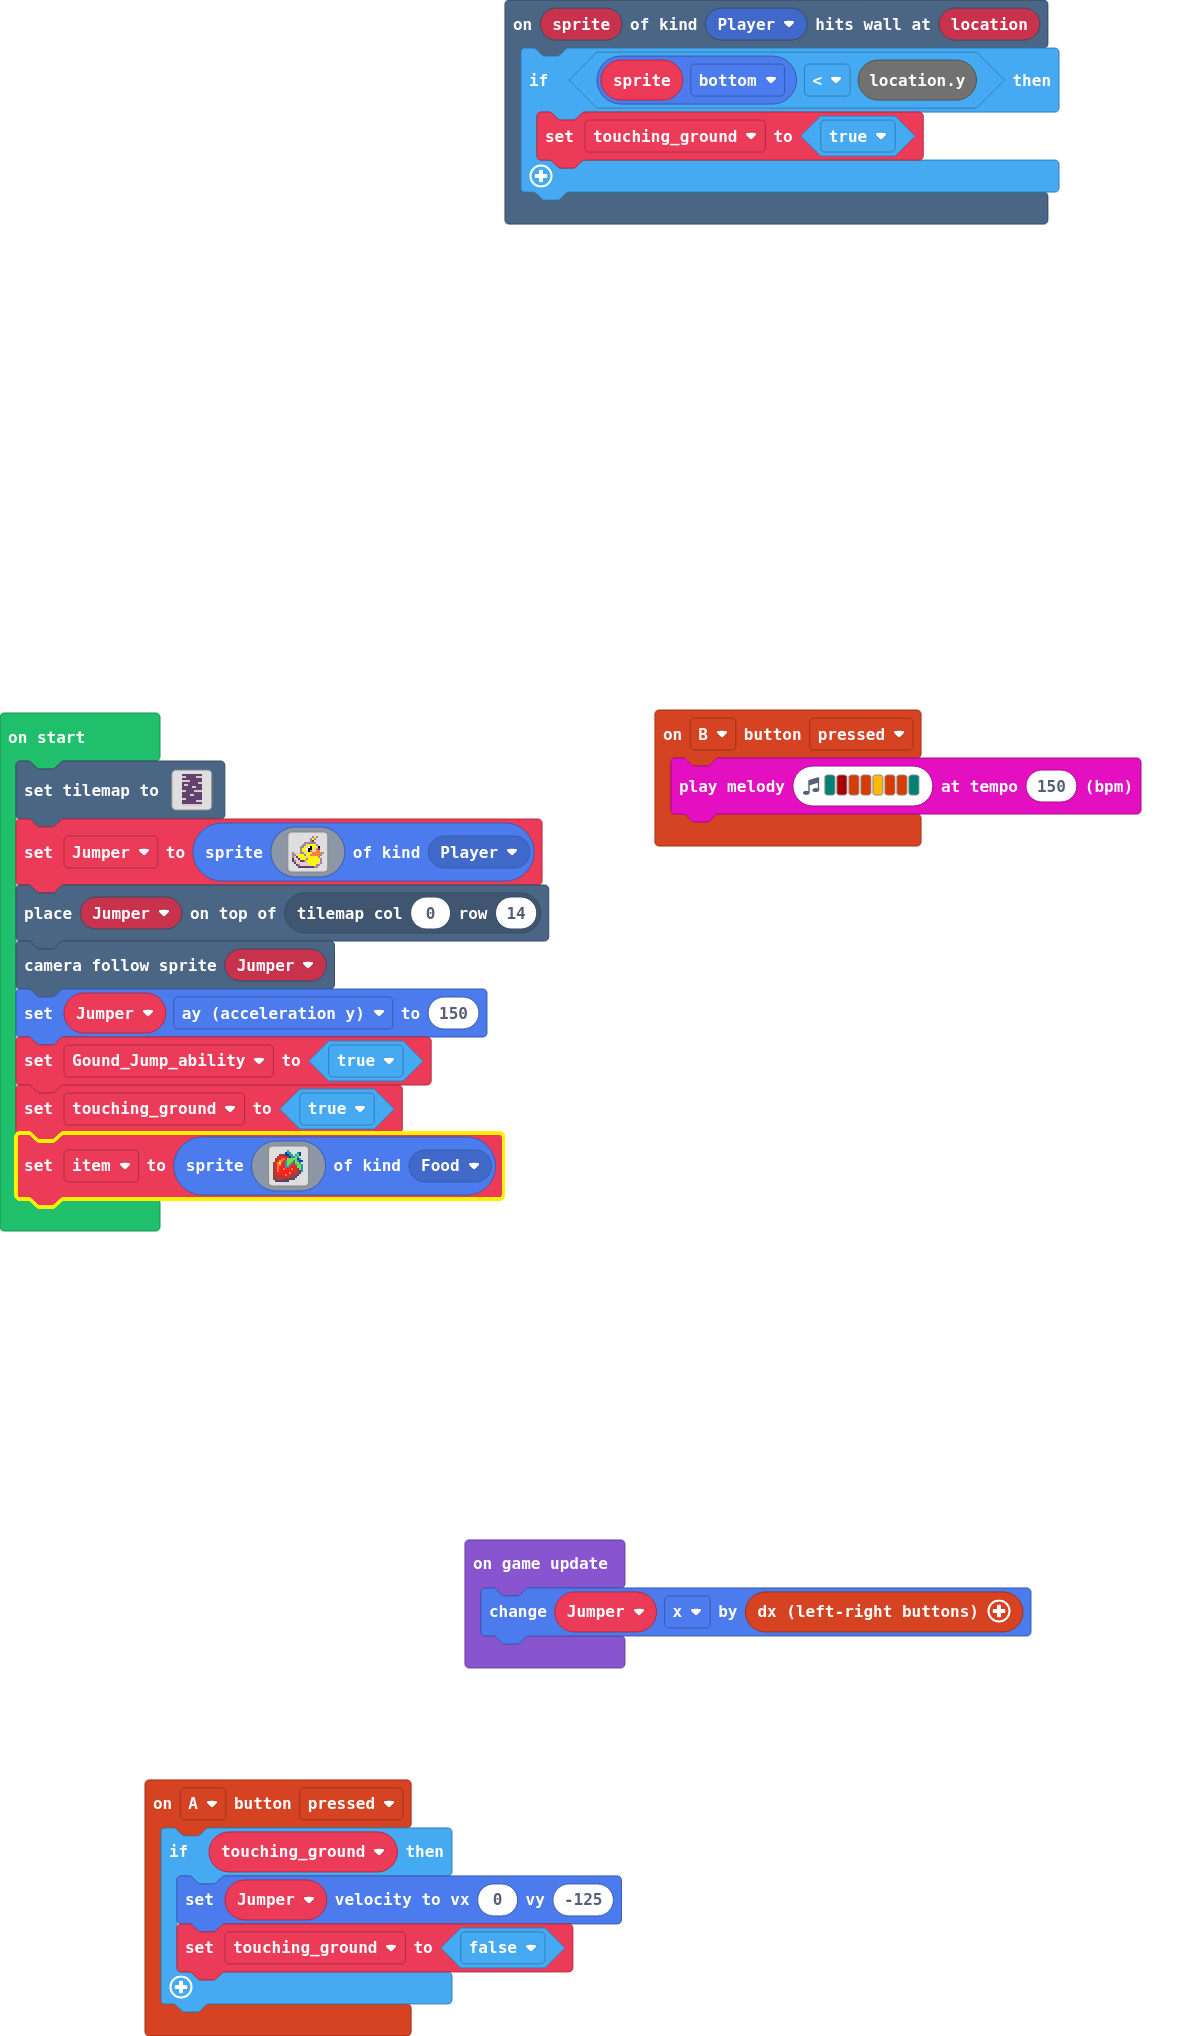
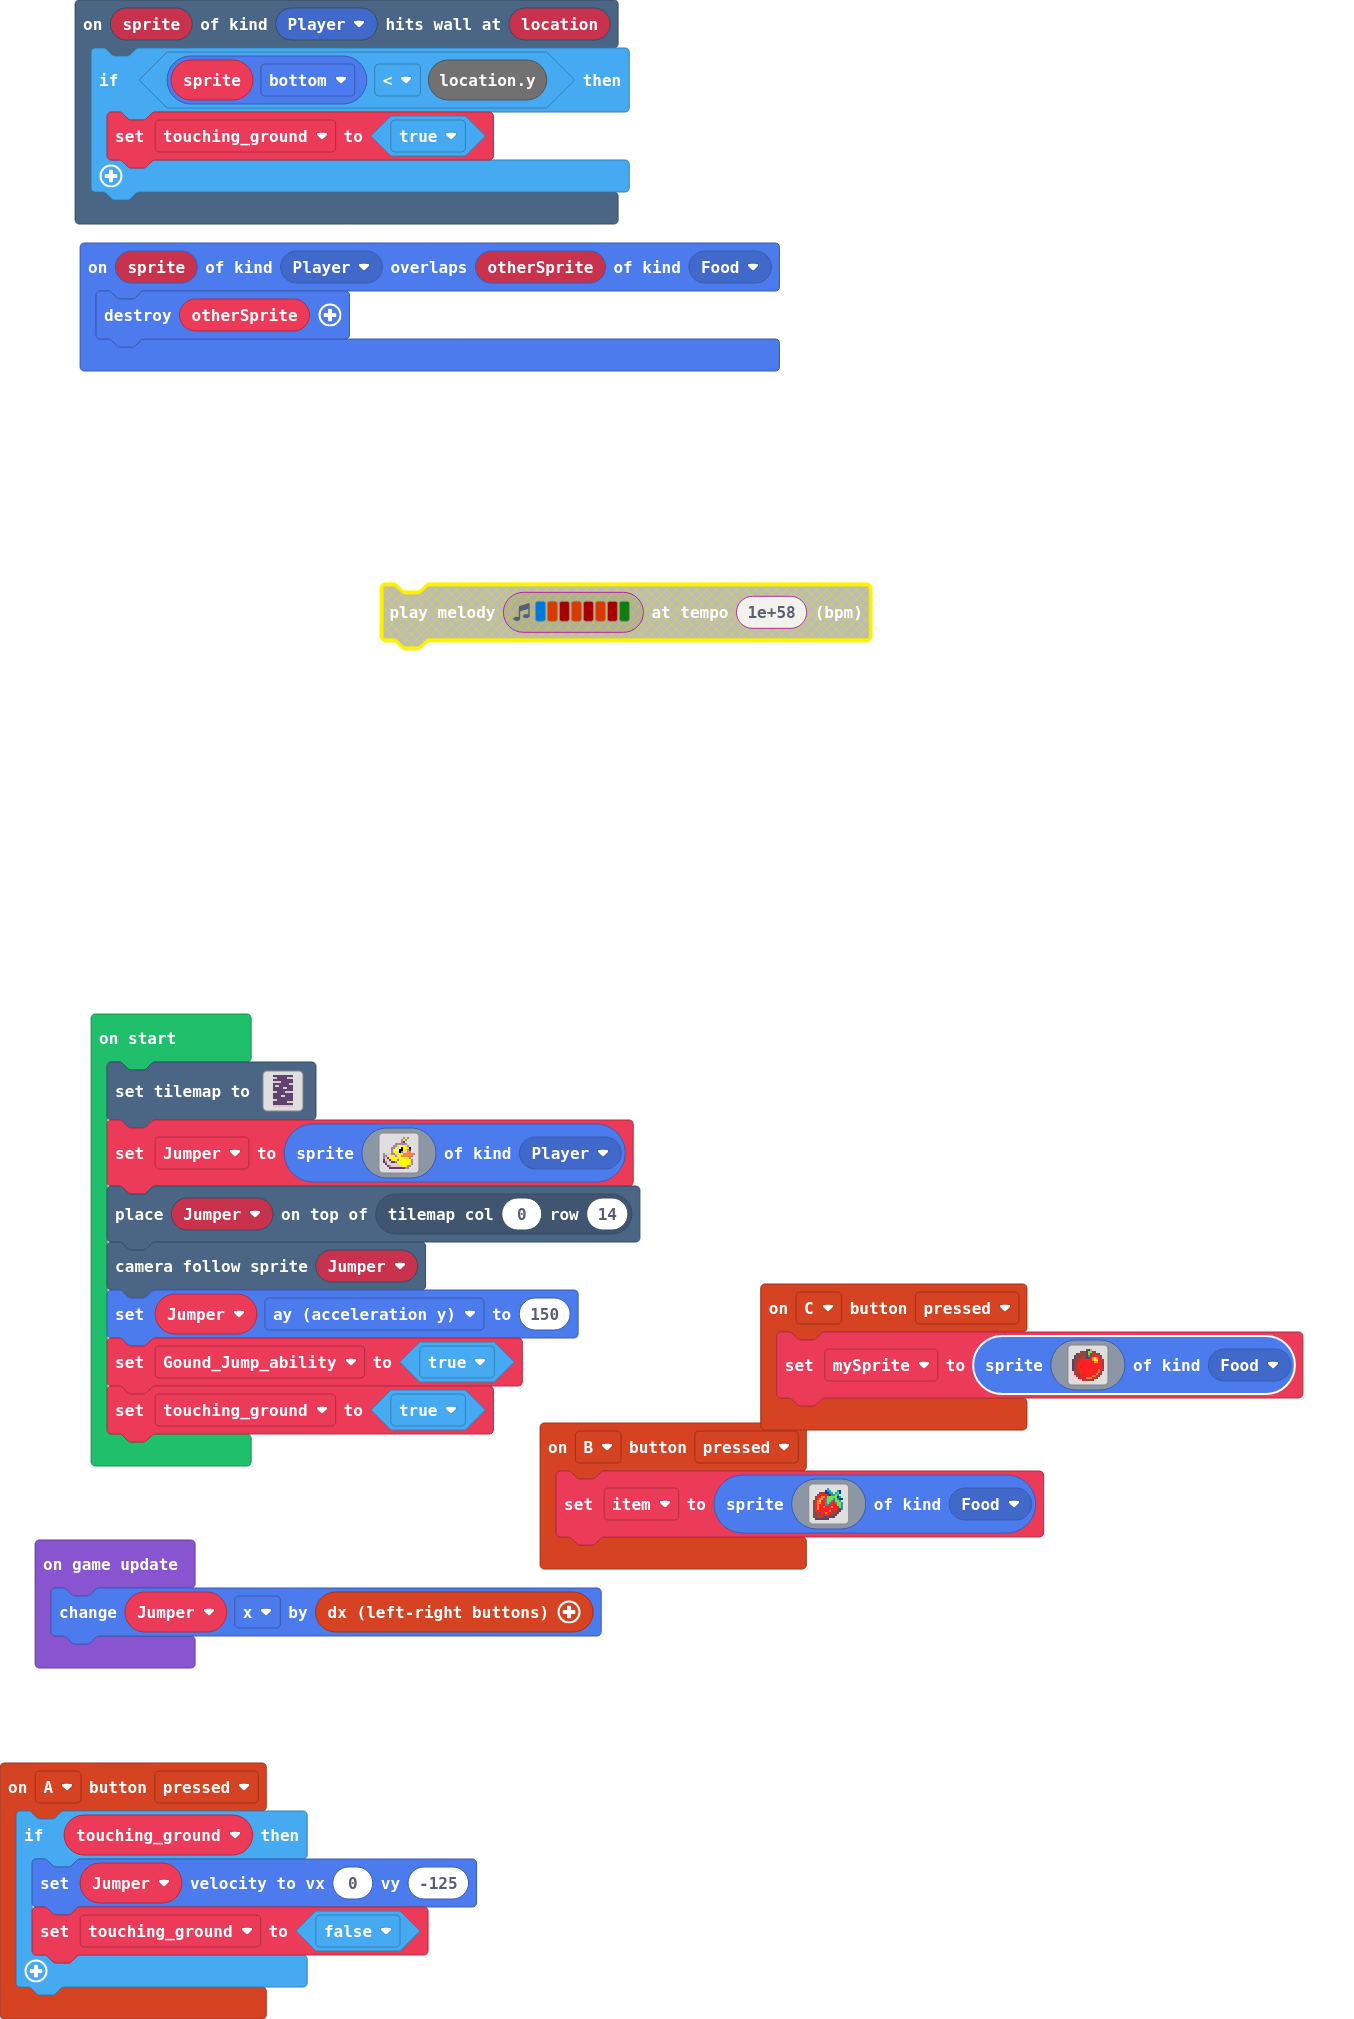
Added items

diff --git a/tilemap.g.ts b/tilemap.g.ts
@@ -22,6 +22,8 @@ namespace myTiles {
     export const tile9 = image.ofBuffer(hex``);
     //% fixedInstance jres blockIdentity=images._tile
     export const tile10 = image.ofBuffer(hex``);
+    //% fixedInstance jres blockIdentity=images._tile
+    export const tile11 = image.ofBuffer(hex``);
 
     helpers._registerFactory("tilemap", function(name: string) {
         switch(helpers.stringTrim(name)) {
@@ -102,7 +104,25 @@ namespace myTiles {
 . . . . . . . . . . . . . . . . 
 `, [myTiles.transparency16], TileScale.Sixteen);
             case "level2":
[2 lines of base64/hex data omitted]
+................................
+................................
+................................
+................................
+................................
+................................
+................................
+................................
+................................
+................................
+................................
+................................
+................................
+22............................22
+.2............................2.
+.2.............22.............2.
+...............22...............
+......22222222222222222222......
 ................................
 ................................
 ................................
@@ -117,25 +137,7 @@ namespace myTiles {
 ................................
 ................................
 ................................
-................................
-................................
-................................
-................................
-................................
-................................
-................................
-................................
-................................
-................................
-................................
-................................
-................................
-................................
-................................
-................................
-................................
-................................
-`, [myTiles.transparency16,myTiles.tile2,myTiles.tile3,myTiles.tile4,myTiles.tile1,myTiles.tile5,myTiles.tile6,myTiles.tile7,myTiles.tile8,myTiles.tile9,myTiles.tile10], TileScale.Sixteen);
+`, [myTiles.transparency16,myTiles.tile2,myTiles.tile3,myTiles.tile4,myTiles.tile1,myTiles.tile5,myTiles.tile6,myTiles.tile7,myTiles.tile8,myTiles.tile9,myTiles.tile10,myTiles.tile11], TileScale.Sixteen);
         }
         return null;
     })
@@ -163,6 +165,8 @@ namespace myTiles {
             case "tile9":return tile9;
             case "myTile8":
             case "tile10":return tile10;
+            case "myTile9":
+            case "tile11":return tile11;
         }
         return null;
     })

diff --git a/main.ts b/main.ts
@@ -4,7 +4,7 @@ scene.onHitWall(SpriteKind.Player, function (sprite, location) {
     }
 })
 controller.B.onEvent(ControllerButtonEvent.Pressed, function () {
-    music.playMelody("F C5 B B A B B F ", 150)
+    item = sprites.create(assets.image`smallStrawberry`, SpriteKind.Food)
 })
 controller.A.onEvent(ControllerButtonEvent.Pressed, function () {
     if (touching_ground) {
@@ -12,6 +12,14 @@ controller.A.onEvent(ControllerButtonEvent.Pressed, function () {
         touching_ground = false
     }
 })
+controller.C.onEvent(ControllerButtonEvent.Pressed, function () {
+    mySprite = sprites.create(assets.image`smallApple`, SpriteKind.Food)
+})
+sprites.onOverlap(SpriteKind.Player, SpriteKind.Food, function (sprite, otherSprite) {
+    otherSprite.destroy()
+})
+let mySprite: Sprite = null
+let item: Sprite = null
 let touching_ground = false
 let Jumper: Sprite = null
 tiles.setTilemap(tilemap`level1`)
@@ -38,7 +46,6 @@ scene.cameraFollowSprite(Jumper)
 Jumper.ay = 150
 let Gound_Jump_ability = true
 touching_ground = true
-let item = sprites.create(assets.image`smallStrawberry`, SpriteKind.Food)
 game.onUpdate(function () {
     Jumper.x += controller.dx()
 })

diff --git a/images.g.ts b/images.g.ts
@@ -22,6 +22,25 @@ e e e e 2 e 2 2 e e e c . . . .
 e e e 2 e e c e c c c . . . . . 
 . c c c c c c c . . . . . . . . 
 `;
+            case "image2":
+            case "smallApple":return img`
+. . . . . . . e c 7 . . . . . . 
+. . . . e e e c 7 7 e e . . . . 
+. . c e e e e c 7 e 2 2 e e . . 
+. c e e e e e c 6 e e 2 2 2 e . 
+. c e e e 2 e c c 2 4 5 4 2 e . 
+c e e e 2 2 2 2 2 2 4 5 5 2 2 e 
+c e e 2 2 2 2 2 2 2 2 4 4 2 2 e 
+c e e 2 2 2 2 2 2 2 2 2 2 2 2 e 
+c e e 2 2 2 2 2 2 2 2 2 2 2 2 e 
+c e e 2 2 2 2 2 2 2 2 2 2 2 2 e 
+c e e 2 2 2 2 2 2 2 2 2 2 4 2 e 
+. e e e 2 2 2 2 2 2 2 2 2 4 e . 
+. 2 e e 2 2 2 2 2 2 2 2 4 2 e . 
+. . 2 e e 2 2 2 2 2 4 4 2 e . . 
+. . . 2 2 e e 4 4 4 2 e e . . . 
+. . . . . 2 2 e e e e . . . . . 
+`;
         }
         return null;
     })
